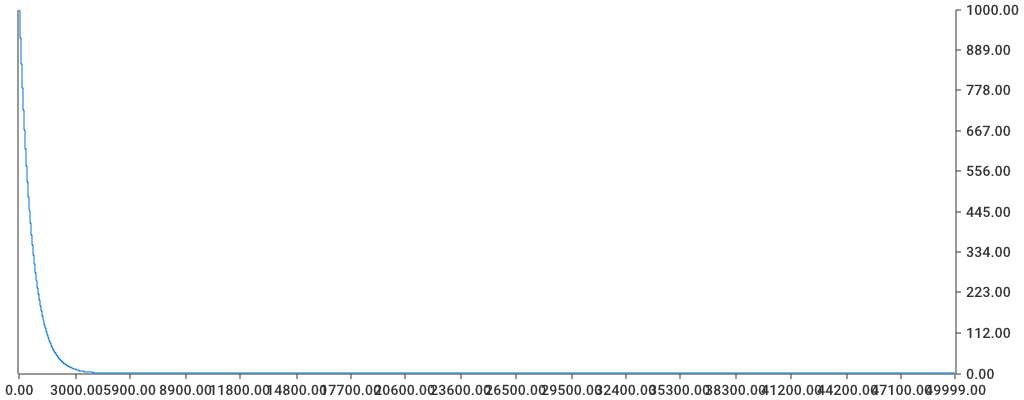
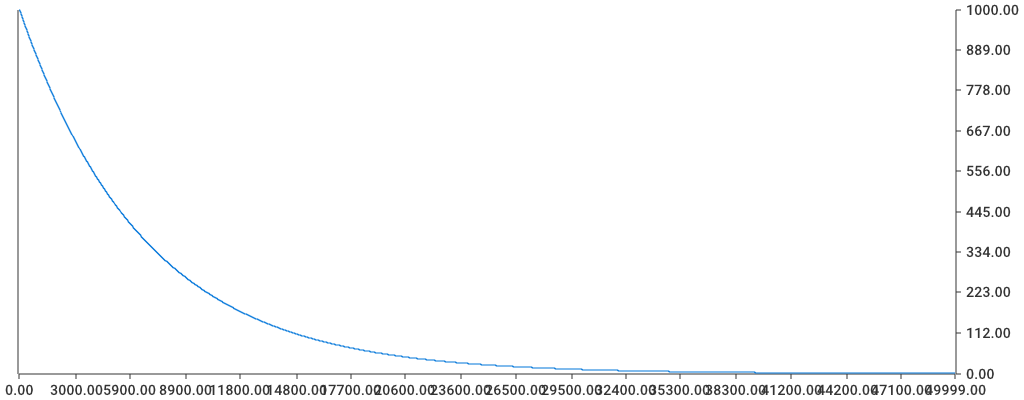
...

diff --git a/main.go b/main.go
@@ -1,11 +1,14 @@
 package main
 
 import (
+	"log"
 	"math/rand"
+	"os"
 	"time"
 
 	a2 "github.com/oyvinddd/inf273/assignment2"
 	"github.com/oyvinddd/inf273/heuristics"
+	"github.com/wcharczuk/go-chart"
 
 	datafiles "github.com/oyvinddd/inf273/data"
 	"github.com/oyvinddd/inf273/util"
@@ -26,7 +29,21 @@ func main() {
 	data := util.LoadDataFile(datafiles.Call130Vehicle40)
 	s0 := a2.GenerateOutsourcedSolution(data)
 
-	s1, obj, _, _, _ := heuristics.SA(data, s0)
+	s1, obj, x, y, _ := heuristics.SA(data, s0)
+	g1 := chart.Chart{
+		Series: []chart.Series{
+			chart.ContinuousSeries{
+				XValues: x,
+				YValues: y,
+			},
+		},
+	}
+	f, _ := os.Create("temperature.png")
+	defer f.Close()
+	err := g1.Render(chart.PNG, f)
+	if err != nil {
+		log.Fatal(err)
+	}
 
 	util.PrintSolutionAndObj(s1, obj)
 }

diff --git a/heuristics/simulated.go b/heuristics/simulated.go
@@ -18,7 +18,7 @@ func SA(data models.INF273Data, solution [][]*models.Call) ([][]*models.Call, in
 	bestObj := a2.CalcTotalObjective(data, best)
 
 	var temp float64 = 1000 // temperature
-	var a float64 = 0.9985  // cooling factor
+	var a float64 = 0.99985 // cooling factor
 	var p1 float32 = 0.1    // probability of using 2-exchange
 	var p2 float32 = 0.05   // probability of using 3-exchange
 
